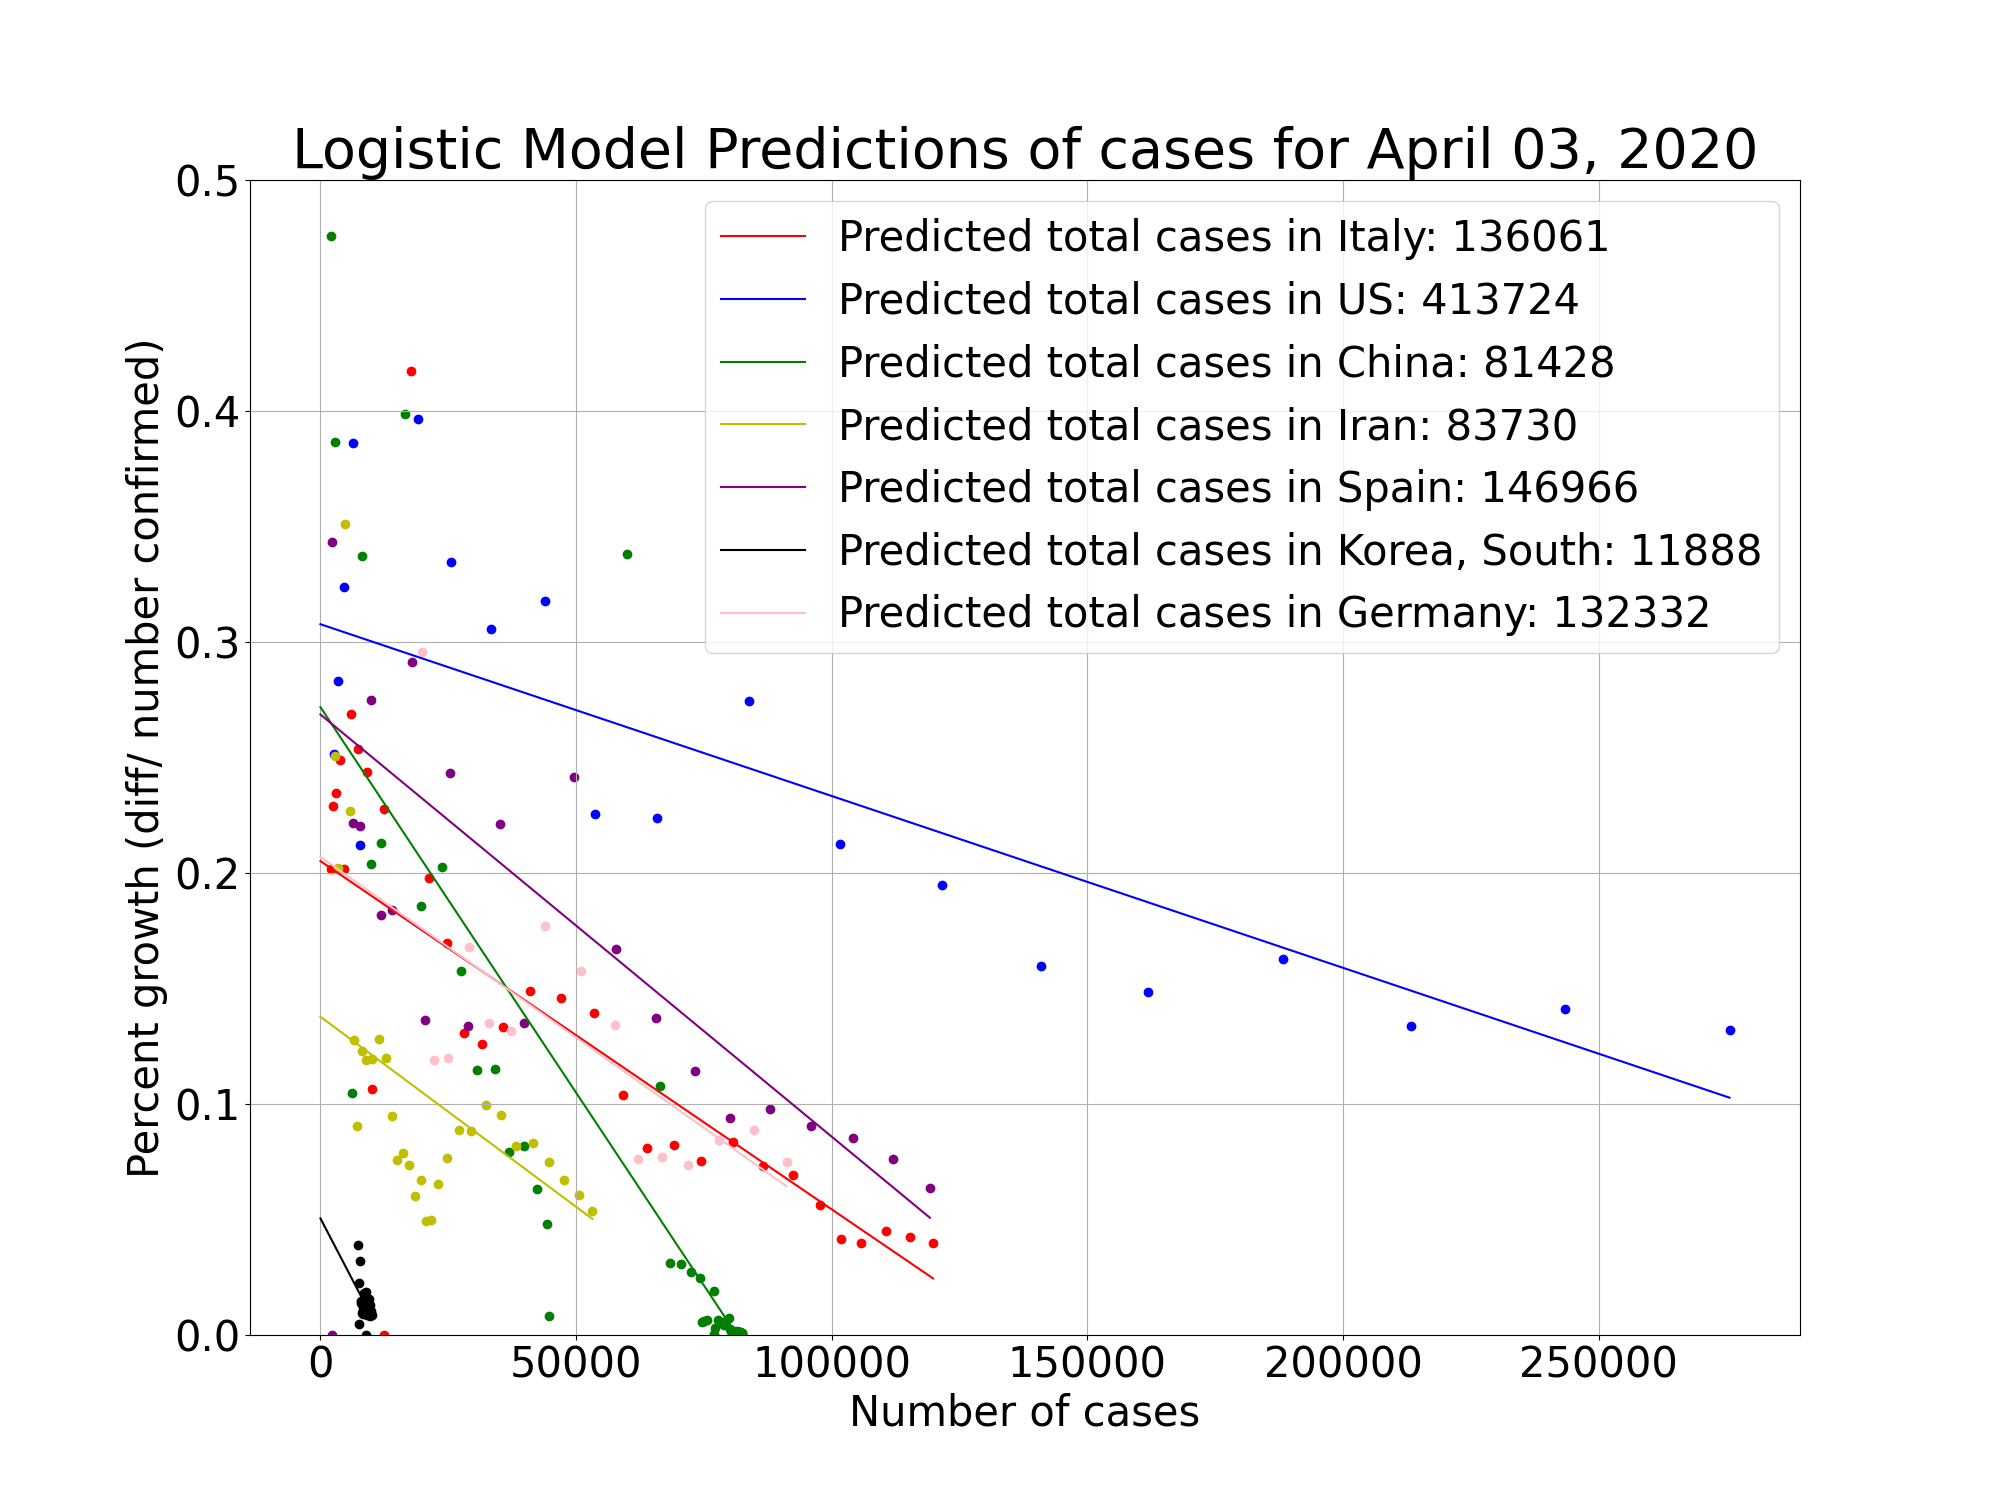
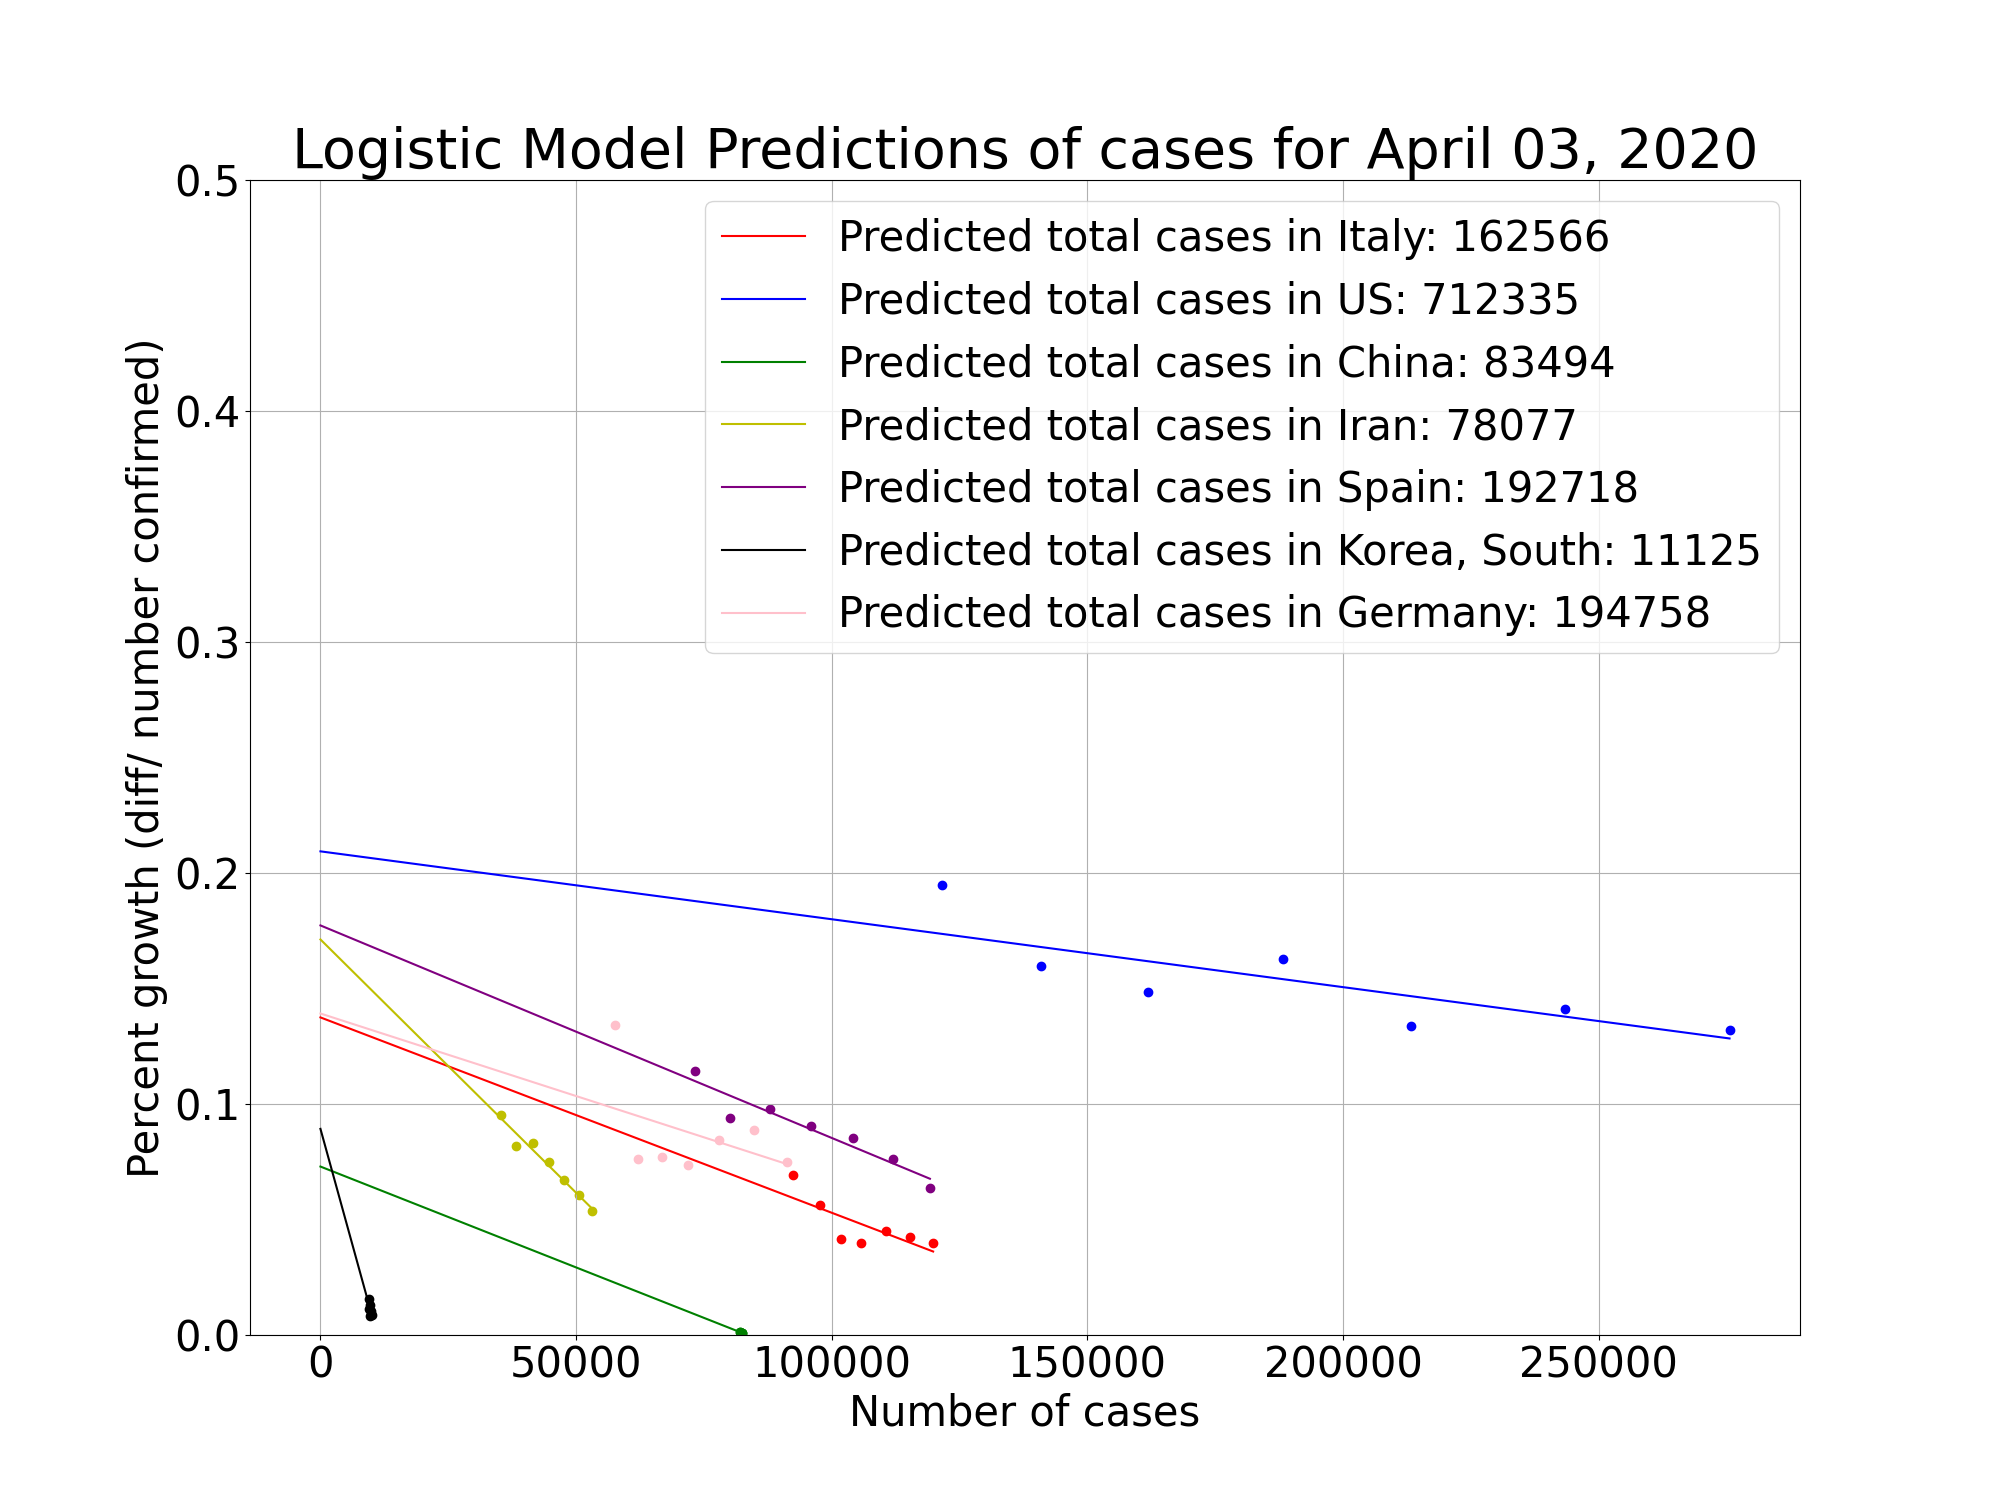
auto update

diff --git a/update_plots.py b/update_plots.py
@@ -34,13 +34,13 @@ for data_type in ('cases', 'deaths'):
         selected_data_confirmed_cases = selected_data.iloc[:, 4:].sum(axis=0)
         if data_type == 'deaths':
             last_zero_day = np.argwhere(selected_data_deaths.values < 50).max()
-            start = -6
+            start = -7
             xdata = selected_data_deaths.values[start:]
             ydata = selected_data_deaths.diff(
             ).values[start:]/selected_data_deaths.values[start-1:-1]
         elif data_type == 'cases':
             last_zero_day = np.argwhere(selected_data_deaths.values < 50).max()
-            start = -6
+            start = -7
             xdata = selected_data_confirmed_cases.values[start:]
             ydata = selected_data_confirmed_cases.diff(
             ).values[start:]/selected_data_confirmed_cases.values[start-1:-1]
